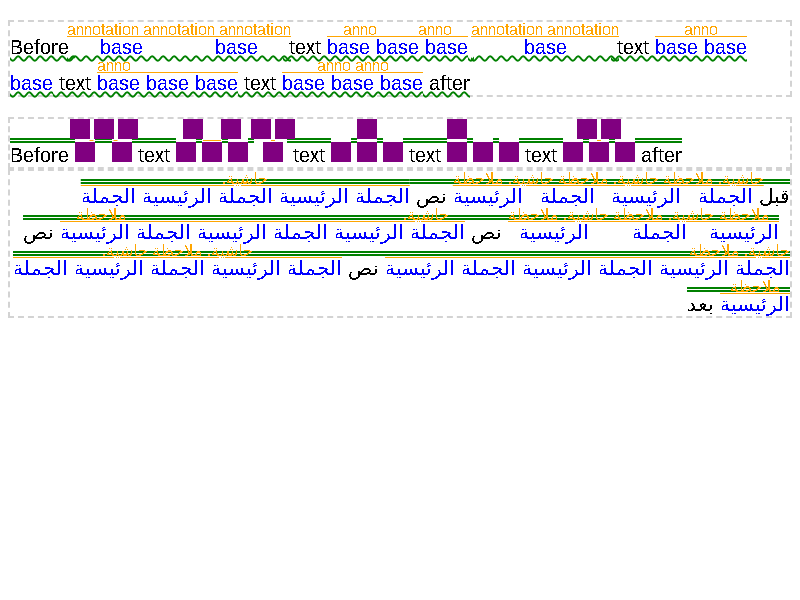
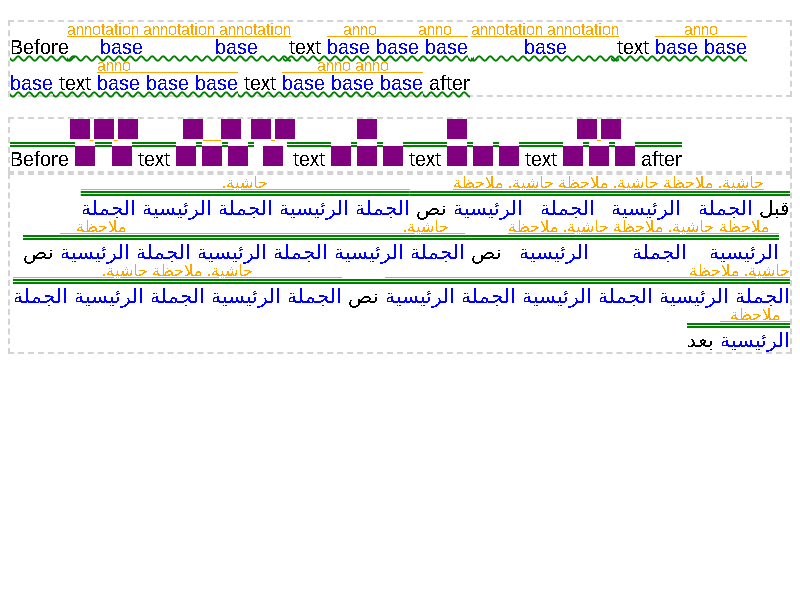
ruby: Fix text decorations overlapping annotations
An underline or overline of a ruby base was drawn at the edge of the
base's em box, which is exactly where the first annotation is placed, so
the two overlapped. It was most visible in vertical writing mode with
lang="ja", where text-underline-position resolves to "over" and an
underline is flipped onto the same side as the annotation.

css-ruby says the decoration is positioned between the base level and
any annotations on that side, so the annotation is what has to move.
RubyBlockPositionCalculator now starts the annotation stack at whichever
is farther from the baseline, the base's em box or the outer edge of the
base's own decorations. The extent comes from
ComputeUnderOverDecorationBounds(), which builds the real decoration
geometry so that wavy amplitude, double offsets and thickness are
accounted for rather than approximated.

The new behavior is behind the RubyTextDecorationSpacing runtime flag.

Each test pairs a transparent decoration with a mismatch reference
holding the same markup without it, so the only thing that can differ
between the two is the annotation position. Pinning the offsets instead
would assert placement that no specification defines.

Tests:
- fast/ruby/ruby-text-decoration-001.html (New, overline, over side)
- fast/ruby/ruby-text-decoration-002.html (New, overline, vertical-rl)
- fast/ruby/ruby-text-decoration-003.html (New, underline, under side)
- fast/ruby/ruby-text-decoration-004.html (New, both lines and sides)
[…]

Changed region(s): [[0.0, 0.21, 1.0, 0.6], [0.0, 0.51, 0.0312, 0.54]]

diff --git a/blink/web_tests/fast/ruby/ruby-text-decoration-004.html b/blink/web_tests/fast/ruby/ruby-text-decoration-004.html
@@ -1,0 +1,24 @@
+<!DOCTYPE html>
+<meta charset="utf-8">
+<title>CSS Ruby Test: text decorations on a ruby base displace its annotations</title>
+<link rel="author" title="ChangSeok Oh" href="mailto:changseok@chromium.org">
+<link rel="help" href="https://drafts.csswg.org/css-ruby-1/#ruby-text-decoration">
+<meta name="assert" content="An underline and an overline of a ruby base are positioned between the base level and the annotations on their respective sides, so both annotations are displaced relative to an otherwise identical undecorated ruby. The decorations are transparent, so any rendering difference is the annotations having moved.">
+<script src="../../resources/ahem.js"></script>
+<style>
+.box { font: 40px/4 Ahem; }
+rt { font: 20px/1 Ahem; }
+.under-line {
+  text-decoration-line: underline;
+  text-decoration-color: transparent;
+  text-decoration-thickness: 20px;
+  text-underline-position: under;
+  text-underline-offset: 0px;
+}
+.over-line {
+  text-decoration-line: overline;
+  text-decoration-color: transparent;
+  text-decoration-thickness: 20px;
+}
+</style>
+<div class="box"><span class="under-line"><ruby class="over-line"><ruby style="ruby-position:under">AA<rt>BBBB</rt></ruby><rt>CCCC</rt></ruby></span></div>

diff --git a/blink/web_tests/fast/ruby/ruby-text-decoration-002.html b/blink/web_tests/fast/ruby/ruby-text-decoration-002.html
@@ -1,0 +1,22 @@
+<!DOCTYPE html>
+<meta charset="utf-8">
+<title>CSS Ruby Test: an overline on a ruby base displaces its annotation in vertical writing mode</title>
+<link rel="author" title="ChangSeok Oh" href="mailto:changseok@chromium.org">
+<link rel="help" href="https://drafts.csswg.org/css-ruby-1/#ruby-text-decoration">
+<meta name="assert" content="In vertical writing mode an overline on a ruby base is positioned between the base level and the annotation on that side, so the annotation is displaced relative to an otherwise identical undecorated ruby. The overline is transparent, so any rendering difference is the annotation having moved.">
+<script src="../../resources/ahem.js"></script>
+<style>
+.box {
+  writing-mode: vertical-rl;
+  text-orientation: upright;
+  width: 200px;
+  font: 40px/3 Ahem;
+}
+rt { font: 20px/1 Ahem; }
+.decorated {
+  text-decoration-line: overline;
+  text-decoration-color: transparent;
+  text-decoration-thickness: 20px;
+}
+</style>
+<div class="box"><ruby><span class="decorated">AA</span><rt>BBBB</rt></ruby></div>

diff --git a/blink/web_tests/fast/ruby/ruby-text-decoration-003.html b/blink/web_tests/fast/ruby/ruby-text-decoration-003.html
@@ -1,0 +1,20 @@
+<!DOCTYPE html>
+<meta charset="utf-8">
+<title>CSS Ruby Test: an underline on a ruby base displaces its under annotation</title>
+<link rel="author" title="ChangSeok Oh" href="mailto:changseok@chromium.org">
+<link rel="help" href="https://drafts.csswg.org/css-ruby-1/#ruby-text-decoration">
+<meta name="assert" content="An underline on a ruby base is positioned between the base level and the annotation on the under side, so the annotation is displaced relative to an otherwise identical undecorated ruby. The underline is transparent, so any rendering difference is the annotation having moved.">
+<script src="../../resources/ahem.js"></script>
+<style>
+.box { font: 40px/3 Ahem; }
+ruby { ruby-position: under; }
+rt { font: 20px/1 Ahem; }
+.decorated {
+  text-decoration-line: underline;
+  text-decoration-color: transparent;
+  text-decoration-thickness: 20px;
+  text-underline-position: under;
+  text-underline-offset: 0px;
+}
+</style>
+<div class="box"><ruby><span class="decorated">AA</span><rt>BBBB</rt></ruby></div>

diff --git a/blink/web_tests/fast/ruby/ruby-text-decoration-001.html b/blink/web_tests/fast/ruby/ruby-text-decoration-001.html
@@ -1,0 +1,17 @@
+<!DOCTYPE html>
+<meta charset="utf-8">
+<title>CSS Ruby Test: an overline on a ruby base displaces its annotation</title>
+<link rel="author" title="ChangSeok Oh" href="mailto:changseok@chromium.org">
+<link rel="help" href="https://drafts.csswg.org/css-ruby-1/#ruby-text-decoration">
+<meta name="assert" content="An overline on a ruby base is positioned between the base level and the annotation on that side, so the annotation is displaced relative to an otherwise identical undecorated ruby. The overline is transparent, so any rendering difference is the annotation having moved.">
+<script src="../../resources/ahem.js"></script>
+<style>
+.box { font: 40px/3 Ahem; }
+rt { font: 20px/1 Ahem; }
+.decorated {
+  text-decoration-line: overline;
+  text-decoration-color: transparent;
+  text-decoration-thickness: 20px;
+}
+</style>
+<div class="box"><ruby><span class="decorated">AA</span><rt>BBBB</rt></ruby></div>

diff --git a/blink/web_tests/fast/ruby/ruby-text-decoration-002-expected-mismatch.html b/blink/web_tests/fast/ruby/ruby-text-decoration-002-expected-mismatch.html
@@ -1,0 +1,15 @@
+<!DOCTYPE html>
+<meta charset="utf-8">
+<title>CSS Ruby Reference: a ruby base with no overline, vertical writing mode</title>
+<link rel="author" title="ChangSeok Oh" href="mailto:changseok@chromium.org">
+<script src="../../resources/ahem.js"></script>
+<style>
+.box {
+  writing-mode: vertical-rl;
+  text-orientation: upright;
+  width: 200px;
+  font: 40px/3 Ahem;
+}
+rt { font: 20px/1 Ahem; }
+</style>
+<div class="box"><ruby><span>AA</span><rt>BBBB</rt></ruby></div>

diff --git a/blink/web_tests/fast/ruby/ruby-text-decoration-004-expected-mismatch.html b/blink/web_tests/fast/ruby/ruby-text-decoration-004-expected-mismatch.html
@@ -1,0 +1,10 @@
+<!DOCTYPE html>
+<meta charset="utf-8">
+<title>CSS Ruby Reference: a ruby with annotations on both sides and no text decoration</title>
+<link rel="author" title="ChangSeok Oh" href="mailto:changseok@chromium.org">
+<script src="../../resources/ahem.js"></script>
+<style>
+.box { font: 40px/4 Ahem; }
+rt { font: 20px/1 Ahem; }
+</style>
+<div class="box"><span><ruby><ruby style="ruby-position:under">AA<rt>BBBB</rt></ruby><rt>CCCC</rt></ruby></span></div>

diff --git a/blink/web_tests/fast/ruby/ruby-text-decoration-003-expected-mismatch.html b/blink/web_tests/fast/ruby/ruby-text-decoration-003-expected-mismatch.html
@@ -1,0 +1,11 @@
+<!DOCTYPE html>
+<meta charset="utf-8">
+<title>CSS Ruby Reference: a ruby base with no underline, annotation under</title>
+<link rel="author" title="ChangSeok Oh" href="mailto:changseok@chromium.org">
+<script src="../../resources/ahem.js"></script>
+<style>
+.box { font: 40px/3 Ahem; }
+ruby { ruby-position: under; }
+rt { font: 20px/1 Ahem; }
+</style>
+<div class="box"><ruby><span>AA</span><rt>BBBB</rt></ruby></div>

diff --git a/blink/web_tests/fast/ruby/ruby-text-decoration-001-expected-mismatch.html b/blink/web_tests/fast/ruby/ruby-text-decoration-001-expected-mismatch.html
@@ -1,0 +1,10 @@
+<!DOCTYPE html>
+<meta charset="utf-8">
+<title>CSS Ruby Reference: a ruby base with no overline</title>
+<link rel="author" title="ChangSeok Oh" href="mailto:changseok@chromium.org">
+<script src="../../resources/ahem.js"></script>
+<style>
+.box { font: 40px/3 Ahem; }
+rt { font: 20px/1 Ahem; }
+</style>
+<div class="box"><ruby><span>AA</span><rt>BBBB</rt></ruby></div>

diff --git a/blink/renderer/core/layout/inline/ruby_utils.cc b/blink/renderer/core/layout/inline/ruby_utils.cc
@@ -17,6 +17,7 @@
 #include "third_party/blink/renderer/core/layout/inline/used_font.h"
 #include "third_party/blink/renderer/core/layout/layout_object_inlines.h"
 #include "third_party/blink/renderer/core/layout/physical_box_fragment.h"
+#include "third_party/blink/renderer/core/paint/text_decoration_info.h"
 #include "third_party/blink/renderer/platform/fonts/font_height.h"
 #include "third_party/blink/renderer/platform/fonts/shaping/han_kerning.h"
 #include "third_party/blink/renderer/platform/heap/collection_support/clear_collection_scope.h"
@@ -930,6 +931,46 @@ FontHeight ComputeLogicalLineEmHeight(const LogicalLineItems& line_items,
   return height;
 }
 
+FontHeight ComputeBaseDecorationExtent(const LogicalLineItems& line_items,
+                                       const Vector<wtf_size_t>& index_list) {
+  FontHeight extent;
+  auto accumulate = [&extent](const LogicalLineItem& item) {
+    if (!item.HasInFlowFragment()) {
+      return;
+    }
+
+    const auto* style = item.Style();
+    if (!style || !style->HasAppliedTextDecorations()) {
+      return;
+    }
+
+    const UsedFont used_font = item.GetUsedFont();
+    const std::optional<gfx::RectF> bounds = ComputeUnderOverDecorationBounds(
+        *style, used_font, item.rect.size.inline_size);
+    if (!bounds) {
+      return;
+    }
+
+    const LayoutUnit ascent = used_font.FixedAscent(style->GetFontBaseline());
+    extent.Unite(
+        FontHeight((ascent - LayoutUnit::FromFloatFloor(bounds->y()))
+                       .ClampNegativeToZero(),
+                   (LayoutUnit::FromFloatCeil(bounds->bottom()) - ascent)
+                       .ClampNegativeToZero()));
+  };
+
+  if (index_list.empty()) {
+    for (const auto& item : line_items) {
+      accumulate(item);
+    }
+  } else {
+    for (const auto index : index_list) {
+      accumulate(line_items[index]);
+    }
+  }
+  return extent;
+}
+
 // Computes the maximum emphasis mark heights (outsets) among all items in
 // `line_items` that have a text-emphasis mark applied.
 FontHeight ComputeEmphasisHeights(const LogicalLineItems& line_items) {
@@ -1246,12 +1287,25 @@ FontHeight RubyBlockPositionCalculator::ComputeRelativeOffsets(
     node_metrics = node.UpdateMetrics();
   }
 
+  FontHeight decoration_extent;
+  if (RuntimeEnabledFeatures::RubyTextDecorationSpacingEnabled() &&
+      node.IsBaseLevel()) {
+    if (!node.OverChildren().empty()) {
+      decoration_extent = ComputeBaseDecorationExtent(
+          base_line_items, node.OverChildren().front()->BaseIndexList());
+    } else if (!node.UnderChildren().empty()) {
+      decoration_extent = ComputeBaseDecorationExtent(
+          base_line_items, node.UnderChildren().front()->BaseIndexList());
+    }
+  }
+
   LayoutUnit subtree_ascent = node_metrics.ascent;
   LayoutUnit subtree_descent = node_metrics.descent;
   FontHeight node_emphasis = node.ComputeLevelEmphasisHeights(base_line_items);
 
   if (!node.OverChildren().empty()) {
-    LayoutUnit current_offset = -node_metrics.ascent;
+    LayoutUnit current_offset =
+        -std::max(node_metrics.ascent, decoration_extent.ascent);
     wtf_size_t i = 0;
 
     // 1. Own annotations
@@ -1306,7 +1360,8 @@ FontHeight RubyBlockPositionCalculator::ComputeRelativeOffsets(
   }
 
   if (!node.UnderChildren().empty()) {
-    LayoutUnit current_offset = node_metrics.descent;
+    LayoutUnit current_offset =
+        std::max(node_metrics.descent, decoration_extent.descent);
     wtf_size_t i = 0;
 
     // 1. Own annotations

diff --git a/blink/renderer/core/paint/text_decoration_info.cc b/blink/renderer/core/paint/text_decoration_info.cc
@@ -172,6 +172,49 @@ TextDecorationFragmentContext ComputeTextDecorationFragmentContext(
   return fragment_context;
 }
 
+std::optional<gfx::RectF> ComputeUnderOverDecorationBounds(
+    const ComputedStyle& style,
+    const UsedFont& font,
+    LayoutUnit inline_size) {
+  DCHECK(style.HasAppliedTextDecorations());
+  if (!font.PrimaryFont()) {
+    return std::nullopt;
+  }
+
+  std::optional<gfx::RectF> bounds;
+  auto unite = [&bounds](const gfx::RectF& rect) {
+    if (!bounds) {
+      bounds = rect;
+      return;
+    }
+    bounds->UnionEvenIfEmpty(rect);
+  };
+
+  TextDecorationInfo decoration_info(
+      LineRelativeOffset(LayoutUnit(), LayoutUnit()), inline_size, style, font,
+      /*inline_context=*/nullptr, TextDecorationLine::kNone, Color());
+  TextDecorationOffset decoration_offset(style);
+  for (wtf_size_t i = 0; i < decoration_info.AppliedDecorationCount(); ++i) {
+    const ResolvedDecoration decoration =
+        decoration_info.ResolveDecorationAt(i);
+    if (!decoration.HasFontData()) {
+      continue;
+    }
+
+    if (decoration.HasUnderline()) {
+      unite(DecorationLinePainter::Bounds(
+          decoration_info.ComputeUnderlineLineData(decoration,
+                                                   decoration_offset)));
+    }
+    if (decoration.HasOverline()) {
+      unite(
+          DecorationLinePainter::Bounds(decoration_info.ComputeOverlineLineData(
+              decoration, decoration_offset)));
+    }
+  }
+  return bounds;
+}
+
 TextDecorationInfo::TextDecorationInfo(
     LineRelativeOffset local_origin,
     LayoutUnit width,

diff --git a/blink/renderer/core/paint/text_decoration_info.h b/blink/renderer/core/paint/text_decoration_info.h
@@ -59,6 +59,11 @@ struct TextDecorationFragmentContext {
 CORE_EXPORT TextDecorationFragmentContext
 ComputeTextDecorationFragmentContext(const InlineCursor& cursor);
 
+CORE_EXPORT std::optional<gfx::RectF> ComputeUnderOverDecorationBounds(
+    const ComputedStyle& style,
+    const UsedFont& font,
+    LayoutUnit inline_size);
+
 // Holds the resolved metrics and styling for a single AppliedTextDecoration.
 // This immutable structure decouples index-specific properties from the overall
 // TextDecorationInfo context.
